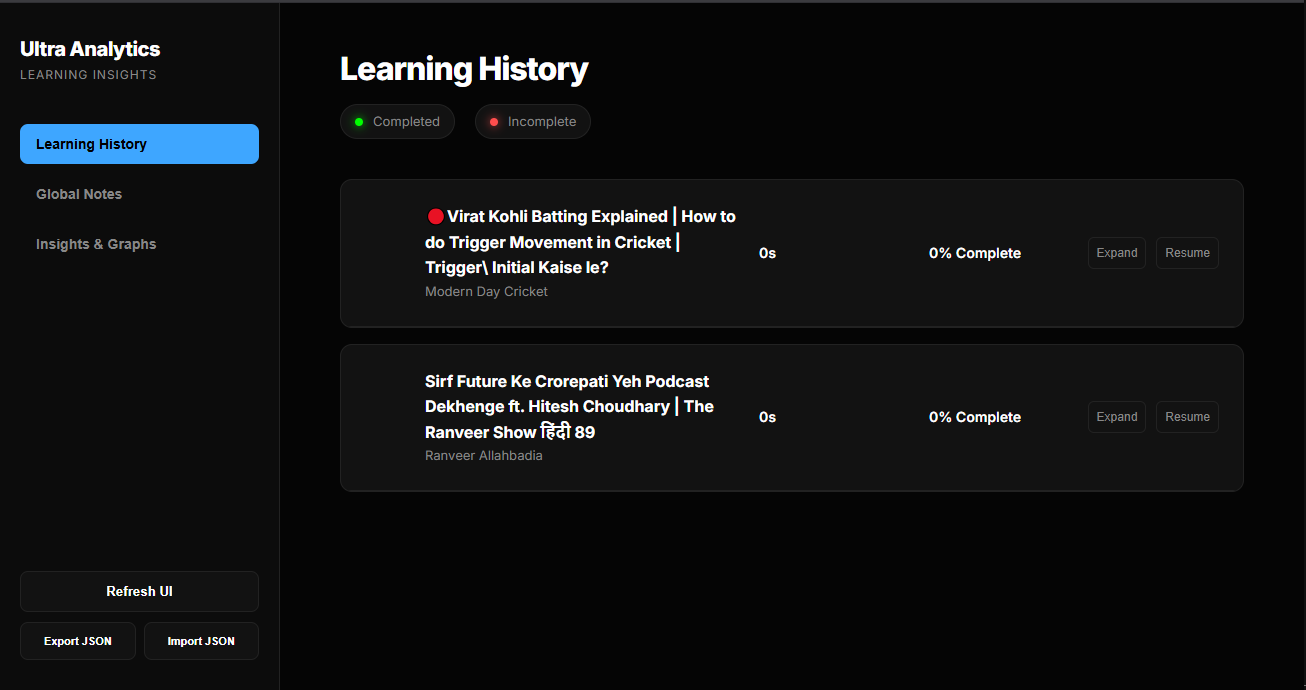
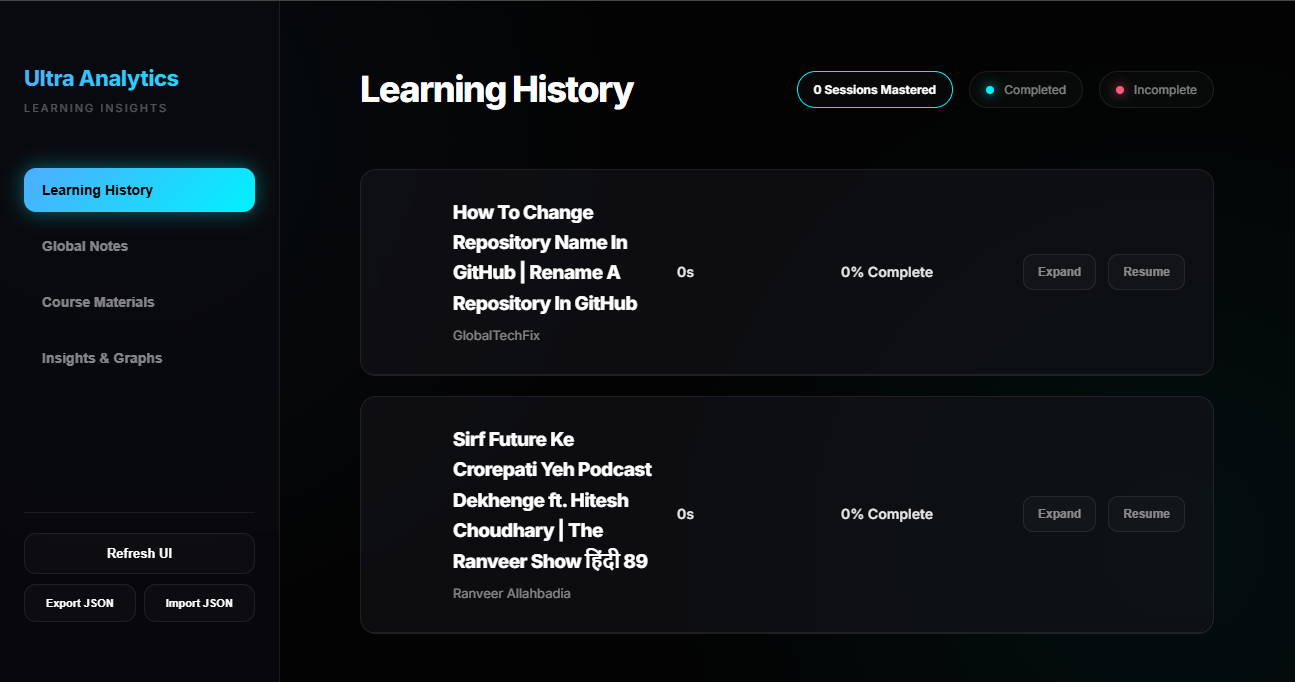
updated readme

diff --git a/README.md b/README.md
@@ -7,7 +7,7 @@ YouTube Ultra Productivity is a high-performance browser extension designed for 
 ---
 
 ![Hero Screenshot](screenshots/1.png)
-*Figure 1: The new navigation bar featuring the Intent Queue, Mode Selector, and the Learning Suite panel.*
+*Figure 1: The revamped V3 homepage featuring the Intent Queue and integrated navigation.*
 
 ---
 
@@ -27,29 +27,28 @@ A persistent side panel that turns every video into a workbench.
 
 - **Timestamped Notes**: Quick-capture insights tied to the specific second of the video.
 - **Visual Sketchpad**: Draw diagrams, mind maps, or equations directly on the player.
-- **Session Progress**: Real-time tracking of your mastery percentage.
-- **Focus Indicator**: No more guessing if you're in high-focus mode.
+- **Course Materials (NEW)**: Bind PDF textbooks or study guides to specific videos for side-by-side learning.
+- **Session Progress**: Real-time tracking of your mastery percentage with a sleek cyan glow.
 
-![Learning Suite](screenshots/1.png)
+![Learning Panel](screenshots/1.png)
 
 ### 3. Aggressive Focus Protection
 We don't just hide distractions; we hunt them down.
 
-- **Shortcut Lockdown**: Aggressively blocks all distracting YouTube keyboard shortcuts (like the mini-player 'i' shortcut) to keep you in the frame.
+- **Shortcut Lockdown**: Blocks all distracting YouTube keyboard shortcuts (like the mini-player 'i' or 'f') to keep you focused.
+- **Premium Glassmorphic UI**: High-fidelity blurs and cyan-blue gradients reduce eye strain and look stunning.
 - **The Shroud**: Positions the player centrally and dims the peripheral UI to eliminate side-eye distractions.
-- **Exit Reflections**: If you pause or leave a session early, the extension asks for your "Intention," forcing a moment of mindfulness before you drift away.
-
-![Focus Protection](screenshots/1.png)
+- **Exit Reflections**: If you pause or leave a session early, the extension asks for your "Intention," forcing a moment of mindfulness.
 
 ### 4. Advanced Analytics Dashboard
 A standalone command center for your learning history.
 
-- **History Management**: Track completed vs. in-progress sessions with Red/Green status indicators.
-- **Local Data Graphs**: Privacy-respecting SVG visualizations of your most-watched channels and note-taking density.
+- **History Management**: Track completed vs. in-progress sessions with Red/Cyan status indicators.
+- **PDF Resource Manager**: Manage all your linked study materials in one place.
 - **"Finish What You Started"**: Incomplete videos cannot be removed from history, enforcing learning discipline.
 
 ![Analytics Dashboard](screenshots/2.png)
-*Figure 2: The full Analytics Dashboard showing learning history, completion status, and visual insights.*
+*Figure 2: The updated Analytics Dashboard featuring the new premium UI and material management.*
 
 ### 5. Privacy-First & Local-First
 Your data is yours. No clouds, no servers, no tracking.
@@ -92,6 +91,7 @@ This extension uses `chrome.storage.local`. All your notes, sketches, and watch 
 ---
 
 ![Popup UI](screenshots/1.png)
+*Figure 3: The new glassmorphic Popup UI for quick mode switching.*
 
 ---
 
